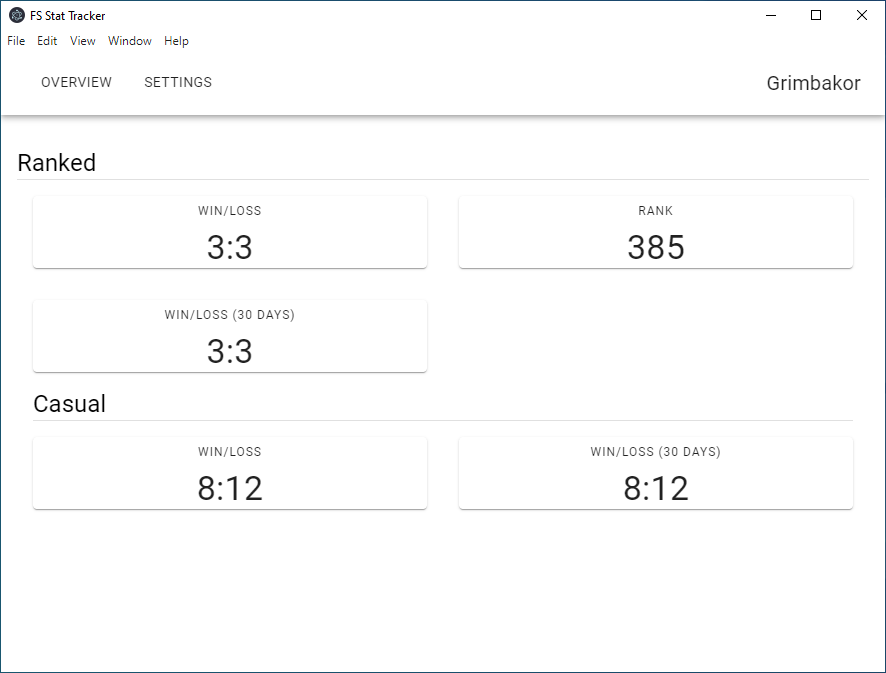
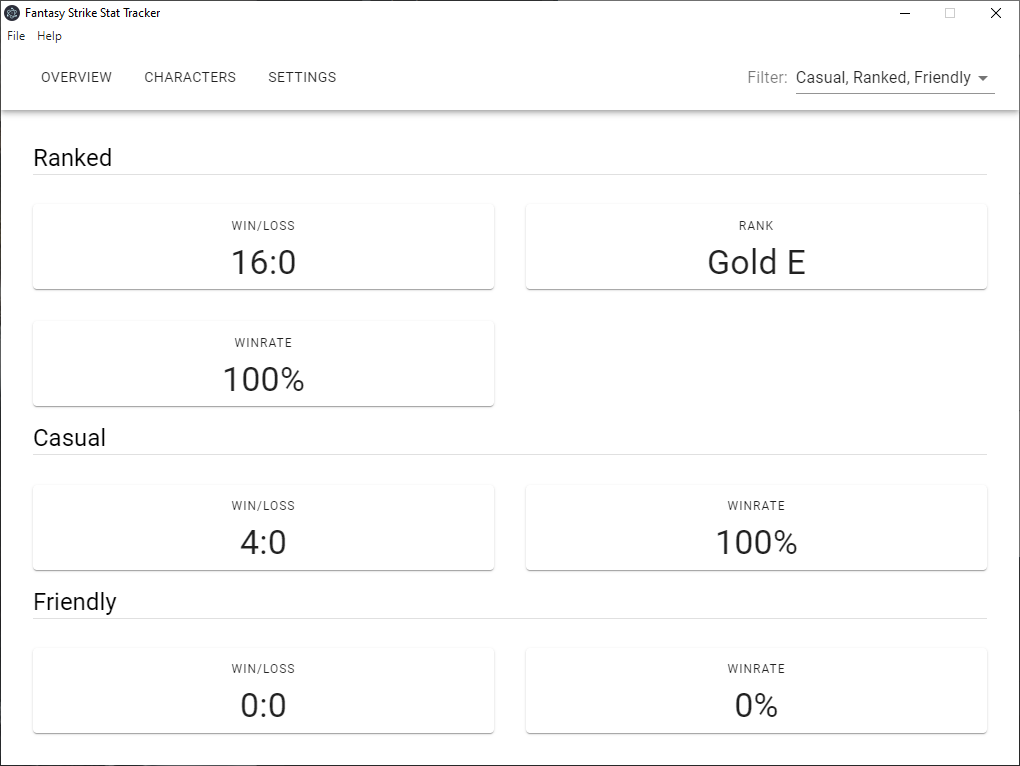
* Fixed Team Battle issue with friend matches not being recorded correctly. * Added link to discord

diff --git a/electron/log_parser/LogParser.ts b/electron/log_parser/LogParser.ts
@@ -4,6 +4,8 @@ import {
   authenticated,
   casualMatchFound,
   challengeMatchFound,
+  friendTeamBattle,
+  friendVersus,
   gameResult,
   rankedBotMatchFound,
   rankedData,
@@ -37,12 +39,14 @@ class LogParser {
   // @ts-ignore
   matchId: string | null;
   matchType: typeof MatchType;
+  challengeTeamBattle: boolean;
   matchMetaData: CasualMatchResult | RankedMatchResult | undefined;
   logger: Logger;
 
   constructor(file: string, process: ChildProcess) {
     this.process = process;
     this.file = file;
+    this.challengeTeamBattle = false;
     this.setDefaultState();
     this.logger = new Logger();
     this.tail = new Tail(this.file, {
@@ -125,8 +129,12 @@ class LogParser {
         const playerWins = game.winner.player === this.player.name;
         const player = playerWins ? game.winner : game.loser;
         const opponent = playerWins ? game.loser : game.winner;
-
-        if (this.matchType === MatchType.ranked && this.matchId !== null) {
+        if (
+          this.matchId !== null &&
+          (this.matchType === MatchType.ranked ||
+            (this.matchType === MatchType.challenge &&
+              this.challengeTeamBattle))
+        ) {
           db.insertGameResult(
             {
               match: this.matchMetaData,
@@ -195,10 +203,21 @@ class LogParser {
           );
         }
       }
+
       const rank = rankedData(line);
       if (rank) {
         db.setPlayer(rank);
         this.process.send([IpcActions.update, rank]);
+      }
+
+      const isFriendTeamBattle = friendTeamBattle(line);
+      if (isFriendTeamBattle) {
+        this.challengeTeamBattle = true;
+      }
+
+      const isFriendVersus = friendVersus(line);
+      if (isFriendVersus) {
+        this.challengeTeamBattle = false;
       }
     } catch (e) {
       this.logger.writeError("LogParser", e);

diff --git a/electron/main.ts b/electron/main.ts
@@ -1,4 +1,4 @@
-import {app, BrowserWindow, Menu, shell} from "electron";
+import {app, BrowserWindow, Menu, MenuItemConstructorOptions, shell,} from "electron";
 import path from "path";
 import url from "url";
 import Backend from "./backend";
@@ -14,6 +14,7 @@ import {
   createPlayerTable,
 } from "./database/defaults";
 import upgrade from "./database/upgrade";
+import {version} from "../package.json";
 
 const isMac = process.platform === "darwin";
 let mainWindow: BrowserWindow | null;
@@ -61,12 +62,29 @@ const menu = Menu.buildFromTemplate([
     submenu: [isMac ? {role: "close"} : {role: "quit"}],
   },
   {
+    label: "About",
+    submenu: [
+      {
+        label: "My Twitch",
+        click: () => {
+          shell.openExternal("https://www.twitch.tv/grimbakor");
+        },
+      },
+    ],
+  },
+  {
     role: "help",
     submenu: [
       {
         label: "GitHub",
         click: () => {
           shell.openExternal("https://github.com/grimkor/fs-stat-tracker/");
+        },
+      },
+      {
+        label: "Discord",
+        click: () => {
+          shell.openExternal("https://discord.gg/vtHwm3P");
         },
       },
       {
@@ -78,13 +96,15 @@ const menu = Menu.buildFromTemplate([
         },
       },
       {
-        label: "My Twitch",
-        click: () => {
-          shell.openExternal("https://www.twitch.tv/grimbakor");
-        },
+        label: version,
+        enabled: false,
       },
     ],
   },
+
+  ...((electronIsDev
+    ? [{label: "Dev", submenu: [{label: "Refresh", role: "reload"}]}]
+    : []) as MenuItemConstructorOptions[]),
 ]);
 Menu.setApplicationMenu(menu);
 

diff --git a/electron/log_parser/matchers.ts b/electron/log_parser/matchers.ts
@@ -79,7 +79,7 @@ export const challengeMatchFound = (
     if (match) {
       logger.writeLine("match", "challengeMatchFound", line);
       const split = line.split(/\[\|joinchallenge:/i);
-      const properties = split[1].matchAll(/\w*:\w*/gi);
+      const properties = split[1].matchAll(/\w*:.*?(?=[,\]])/gi);
       return [...properties].reduce((acc, prop) => {
         const [key, value] = prop[0].split(":");
         return key ? { ...acc, [key]: value } : acc;
@@ -155,5 +155,29 @@ export const rankedData = (line: string): RankedDataResult | undefined => {
     }
   } catch (e) {
     logger.writeError("rankedData matcher", e);
+  }
+};
+
+export const friendTeamBattle = (line: string): boolean | undefined => {
+  try {
+    const match = line.match(/\[\|setmode:friend-teambattle\]/i);
+    if (match) {
+      logger.writeLine("match", "friendTeamBattle", line);
+      return true;
+    }
+  } catch (e) {
+    logger.writeError("friendTeamBattle matcher", e);
+  }
+};
+
+export const friendVersus = (line: string): boolean | undefined => {
+  try {
+    const match = line.match(/\[\|setmode:friend-versus\]/i);
+    if (match) {
+      logger.writeLine("match", "friendVersus", line);
+      return true;
+    }
+  } catch (e) {
+    logger.writeError("friendVersus matcher", e);
   }
 };

diff --git a/README.md b/README.md
@@ -2,16 +2,18 @@ Current release: [Click here](https://github.com/grimkor/fs-stat-tracker/release
 
 # Fantasy Strike Stat Tracker
 
-Fantasy Strike Stat Tracker is a stat tracker for Fantasy Strike. By running in the background the Fantasy Strike Stat Tracker will record match and game results as they occur feeding back win:loss and rank for ranked and casual.
+Fantasy Strike Stat Tracker is a stat tracker for Fantasy Strike. By running in the background the Fantasy Strike Stat Tracker will record match and game results as they occur feeding back win:loss and rank for ranked and casual as well as a character breakdown with game history and matchup winrates.
 
-Fantasy Strike Stat Tracker achieves this by reading the game logs and storing results in a local database. All data is stored locally and not shared over the internet.
+The Fantasy Strike Stat Tracker achieves this by reading the game logs, the same ones that support will ask for and looking for specific lines in the logs that tell the program what game results occur. The results are stored results in a local database and all data is stored locally, nothing is shared over the internet.
 
 ![Screenshot](img/fs-stat-tracker_overview.png)
 
+![Screenshot](img/character-page.png)
+
 ## Installation
 
-There is no installation required for this, I have purposefully built this to run as a portable executable file.
-Currently, there is only a Windows version of this however other versions can become available if there is demand.
+There is no installation required for this, I have purposefully built this to run as a portable executable file so to "uninstall" simple delete the file.
+Primarily this is built with Windows in mind however there are running Linux builds, sparsely tested on Ubuntu.
 
 The current release can be found here: [current release](https://github.com/grimkor/fs-stat-tracker/releases)
 
@@ -62,4 +64,13 @@ Output should be in _<project_root>/packages_
 
 If you run into any issues or bugs with the Fantasy Strike Stat Tracker then I urge you to raise an [issue](https://github.com/grimkor/fs-stat-tracker/issues/new) on this GitHub project and attach the output logs found at _%USERPROFILE%/fs-stat-tracker.log_. Please note this file resets every time the Fantasy Strike Stat Tracker is ran, so for the logs to be pertinent they must be from the last time the issue/bug occurred without re-running the application.
 
-Alternatively I am on the Fantasy Strike Discord as @Grimbakor.
+Alternatively there is a Discord found [here](https://discord.gg/vtHwm3P).
+
+## Thanks
+
+| Person   | Contribution                                                                                               |
+| -------- | ---------------------------------------------------------------------------------------------------------- |
+| fireblur | Testing & feedback, finding requirements, soundboard!                                                      |
+| Dr. Zeus | Technical feedback for some of my design direction                                                         |
+| monorail | Shared her original python-based solution here [fs_stats](https://github.com/undergroundmonorail/fs_stats) |
+
